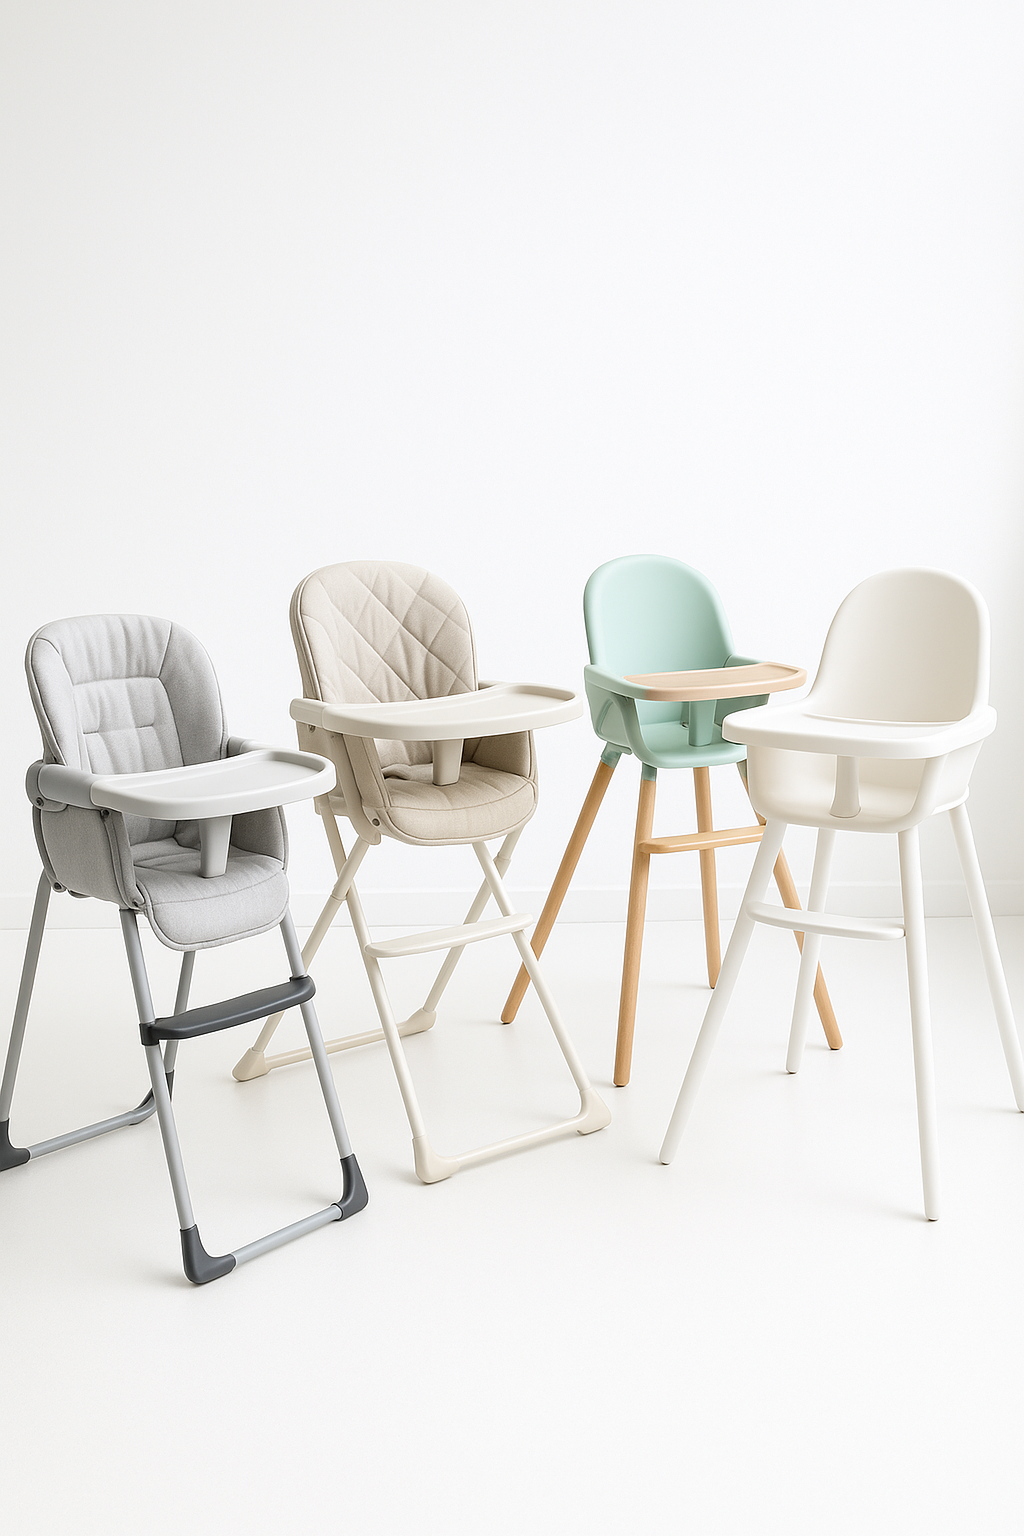
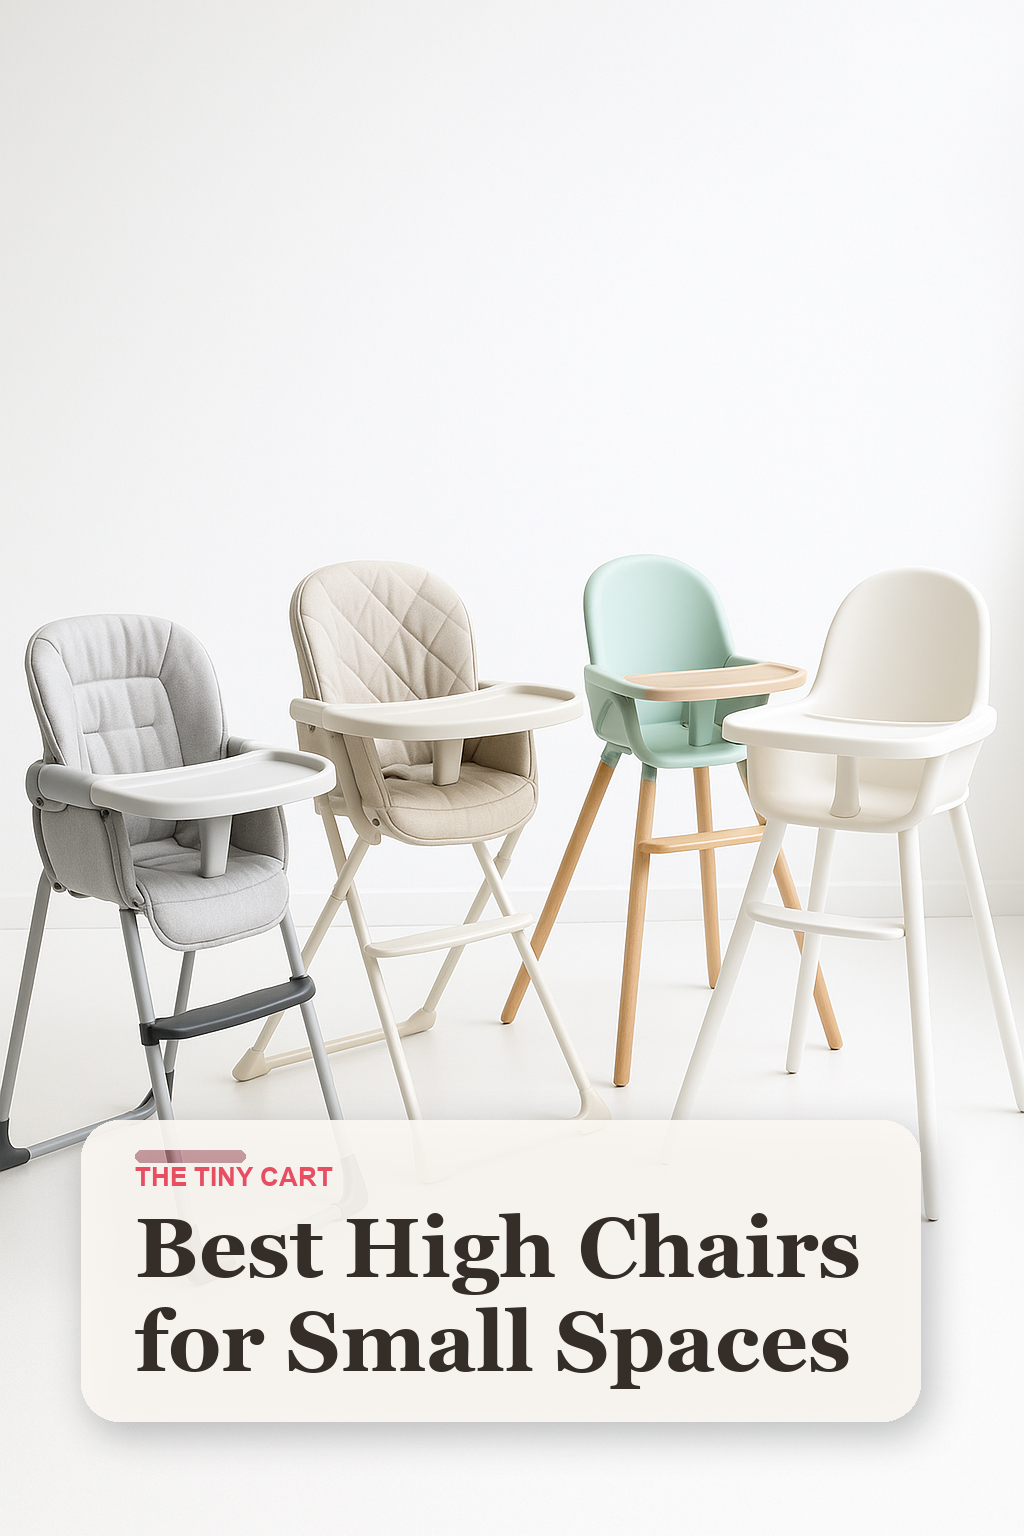
Add automatic pin title overlays

Changed region(s): [[0.0625, 0.7188, 0.9375, 0.9375], [0.5, 0.7188, 0.5938, 0.75], [0.625, 0.7188, 0.6562, 0.75]]

diff --git a/scripts/build_pin_images.py b/scripts/build_pin_images.py
@@ -1,0 +1,205 @@
+#!/usr/bin/env python3
+
+from __future__ import annotations
+
+import io
+import json
+import re
+from pathlib import Path
+from typing import Any
+
+from PIL import Image, ImageDraw, ImageFilter, ImageFont
+
+
+ROOT = Path(__file__).resolve().parents[1]
+DATA_PATH = ROOT / "data" / "pinterest_backlog.json"
+
+HEADLINE_FONT_PATHS = [
+    Path("/System/Library/Fonts/Supplemental/Georgia Bold.ttf"),
+    Path("/System/Library/Fonts/Supplemental/Georgia.ttf"),
+    Path("/System/Library/Fonts/Supplemental/Arial Bold.ttf"),
+    Path("/System/Library/Fonts/Supplemental/Arial.ttf"),
+]
+LABEL_FONT_PATHS = [
+    Path("/System/Library/Fonts/Supplemental/Arial Bold.ttf"),
+    Path("/System/Library/Fonts/Supplemental/Arial.ttf"),
+]
+
+CARD_FILL = (251, 247, 242, 235)
+SHADOW_FILL = (24, 29, 33, 70)
+TEXT_FILL = (53, 45, 39, 255)
+LABEL_FILL = (231, 78, 97, 255)
+
+
+def load_posts() -> list[dict[str, Any]]:
+    with DATA_PATH.open() as handle:
+        return json.load(handle)
+
+
+def load_font(paths: list[Path], size: int) -> ImageFont.FreeTypeFont | ImageFont.ImageFont:
+    for path in paths:
+        if path.exists():
+            return ImageFont.truetype(str(path), size=size)
+    return ImageFont.load_default()
+
+
+def image_path(relative_path: str) -> Path:
+    return ROOT / relative_path.lstrip("/")
+
+
+def resolve_source_image(post: dict[str, Any]) -> Path:
+    relative = post.get("source_image")
+    if relative:
+        return image_path(relative)
+    output_path = image_path(post["image"])
+    return output_path.parent / "source" / output_path.name
+
+
+def normalize_title(text: str) -> str:
+    title = re.sub(r"\s*\((?:19|20)\d{2}\)\s*$", "", text).strip()
+    title = re.sub(r"\s+in\s+(?:19|20)\d{2}\b", "", title).strip()
+    title = title.replace(" & ", " and ")
+    return re.sub(r"\s+", " ", title).strip()
+
+
+def wrap_text(draw: ImageDraw.ImageDraw, text: str, font: ImageFont.ImageFont, max_width: int) -> list[str]:
+    words = text.split()
+    if not words:
+        return [""]
+
+    lines: list[str] = []
+    current = words[0]
+    for word in words[1:]:
+        candidate = f"{current} {word}"
+        candidate_box = draw.textbbox((0, 0), candidate, font=font)
+        if candidate_box[2] <= max_width:
+            current = candidate
+        else:
+            lines.append(current)
+            current = word
+    lines.append(current)
+    return lines
+
+
+def fit_headline(
+    draw: ImageDraw.ImageDraw,
+    text: str,
+    max_width: int,
+) -> tuple[ImageFont.ImageFont, list[str], int]:
+    for size in range(84, 44, -2):
+        font = load_font(HEADLINE_FONT_PATHS, size)
+        lines = wrap_text(draw, text, font, max_width)
+        if len(lines) > 3:
+            continue
+
+        spacing = max(8, size // 5)
+        text_box = draw.multiline_textbbox((0, 0), "\n".join(lines), font=font, spacing=spacing)
+        if text_box[2] <= max_width and text_box[3] <= 330:
+            return font, lines, spacing
+
+    font = load_font(HEADLINE_FONT_PATHS, 44)
+    lines = wrap_text(draw, text, font, max_width)
+    return font, lines[:3], 10
+
+
+def draw_overlay(post: dict[str, Any]) -> bool:
+    source_path = resolve_source_image(post)
+    output_path = image_path(post["image"])
+    if not source_path.exists():
+        raise FileNotFoundError(f"Missing source image for {post['path']}: {source_path}")
+
+    pin_title = normalize_title(post.get("pin_title") or post["title"])
+
+    with Image.open(source_path) as image:
+        canvas = image.convert("RGBA")
+
+    width, height = canvas.size
+    label_font = load_font(LABEL_FONT_PATHS, 26)
+    scratch = Image.new("RGBA", (width, height))
+    scratch_draw = ImageDraw.Draw(scratch)
+
+    card_width = int(width * 0.82)
+    padding_x = 54
+    padding_top = 42
+    padding_bottom = 46
+    max_text_width = card_width - (padding_x * 2)
+
+    headline_font, title_lines, line_spacing = fit_headline(scratch_draw, pin_title, max_text_width)
+    label_box = scratch_draw.textbbox((0, 0), "THE TINY CART", font=label_font)
+    title_box = scratch_draw.multiline_textbbox(
+        (0, 0),
+        "\n".join(title_lines),
+        font=headline_font,
+        spacing=line_spacing,
+    )
+
+    label_height = label_box[3] - label_box[1]
+    title_height = title_box[3] - title_box[1]
+    card_height = padding_top + label_height + 18 + title_height + padding_bottom
+    card_x = int(width * 0.08)
+    card_y = height - card_height - int(height * 0.075)
+    card_bounds = (card_x, card_y, card_x + card_width, card_y + card_height)
+    radius = 38
+
+    shadow_layer = Image.new("RGBA", canvas.size, (0, 0, 0, 0))
+    shadow_draw = ImageDraw.Draw(shadow_layer)
+    shadow_bounds = (
+        card_bounds[0] + 8,
+        card_bounds[1] + 12,
+        card_bounds[2] + 8,
+        card_bounds[3] + 12,
+    )
+    shadow_draw.rounded_rectangle(shadow_bounds, radius=radius, fill=SHADOW_FILL)
+    canvas = Image.alpha_composite(canvas, shadow_layer.filter(ImageFilter.GaussianBlur(18)))
+
+    card_layer = Image.new("RGBA", canvas.size, (0, 0, 0, 0))
+    card_draw = ImageDraw.Draw(card_layer)
+    card_draw.rounded_rectangle(card_bounds, radius=radius, fill=CARD_FILL)
+    card_draw.rounded_rectangle(
+        (card_x + padding_x, card_y + 30, card_x + padding_x + 110, card_y + 42),
+        radius=6,
+        fill=(231, 78, 97, 70),
+    )
+
+    text_x = card_x + padding_x
+    label_y = card_y + padding_top
+    card_draw.text(
+        (text_x, label_y),
+        "THE TINY CART",
+        font=label_font,
+        fill=LABEL_FILL,
+    )
+    title_y = label_y + label_height + 18
+    card_draw.multiline_text(
+        (text_x, title_y),
+        "\n".join(title_lines),
+        font=headline_font,
+        fill=TEXT_FILL,
+        spacing=line_spacing,
+    )
+
+    merged = Image.alpha_composite(canvas, card_layer).convert("RGB")
+    output_path.parent.mkdir(parents=True, exist_ok=True)
+
+    buffer = io.BytesIO()
+    merged.save(buffer, format="PNG", optimize=True)
+    new_bytes = buffer.getvalue()
+    old_bytes = output_path.read_bytes() if output_path.exists() else None
+    if old_bytes == new_bytes:
+        return False
+
+    output_path.write_bytes(new_bytes)
+    return True
+
+
+def main() -> None:
+    posts = load_posts()
+    changed_count = 0
+    for post in posts:
+        if draw_overlay(post):
+            changed_count += 1
+    print(f"Rendered {len(posts)} Pinterest pin images ({changed_count} changed).")
+
+
+if __name__ == "__main__":
+    main()

diff --git a/scripts/build_site_files.py b/scripts/build_site_files.py
@@ -15,6 +15,7 @@ def run(script_name: str) -> None:
 
 
 def main() -> None:
+    run("build_pin_images.py")
     run("build_pinterest_feed.py")
     run("build_sitemap.py")
 
